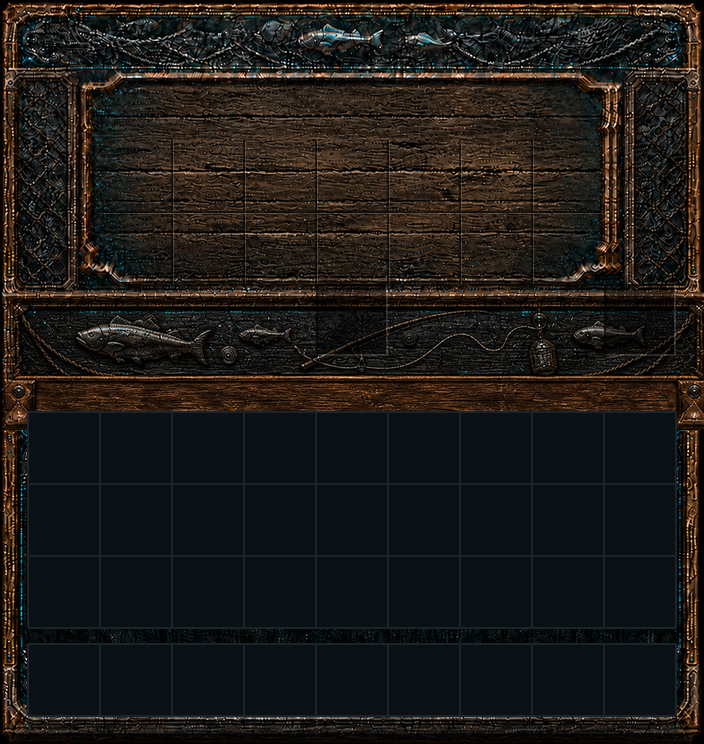
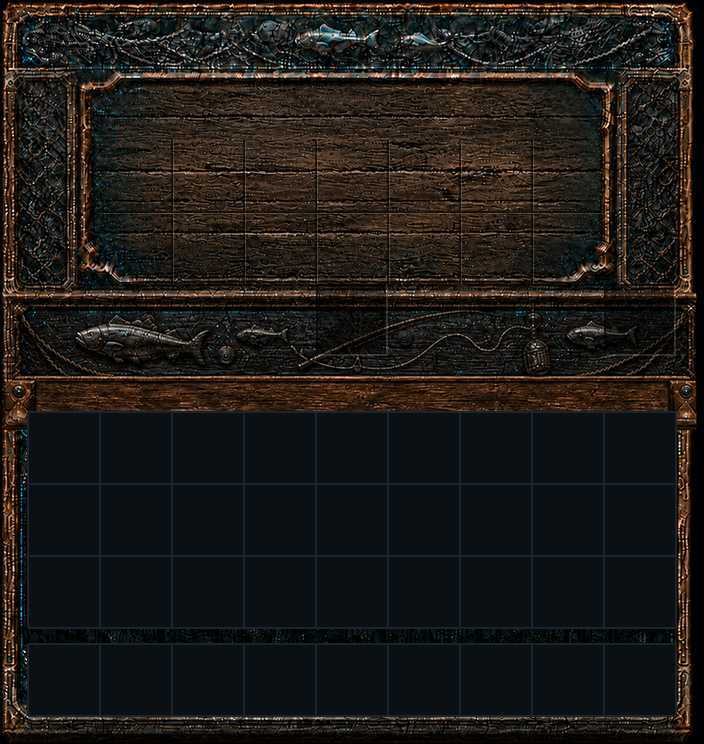
납품 원화 캔버스 보정기(fit_plate.py) + 판매창/공용 원화 반영
그림 생성기가 가이드 캔버스를 정확히 못 맞춘다(1117x1409, 1236x1273). 통짜
리사이즈로 되는 경우와, 내부 층 위치가 어긋나 구간별 재배치가 필요한 경우를 함께 처리.

공용 6행 원화는 나무 구분 띠와 인벤 패널이 약 60px 낮아 인벤 첫 줄이 띠 위에
올라탔다 — 컨테이너 영역(0~499)은 정확했으므로 유지하고 아래만 끌어올렸다.

★bg_raw.png(납품 원화)는 손대지 않고 bg_source.png 를 항상 재생성 —
여러 번 돌려도 리샘플 열화가 누적되지 않는다.

Changed region(s): [[0.0, 0.0, 1.0, 1.0], [0.625, 0.8347, 0.6562, 0.8656], [0.0, 0.2164, 0.0312, 0.2473]]

diff --git a/gui-forge/fit_plate.py b/gui-forge/fit_plate.py
@@ -1,0 +1,62 @@
+#!/usr/bin/env python3
+"""납품 원화(bg_raw.png)를 정확한 캔버스에 맞춘다 — 통짜 리사이즈 + 구간별 세로 보정.
+
+## 왜
+그림 생성기가 가이드 캔버스를 정확히 못 맞춘다(1117x1409, 1236x1273 처럼 나온다).
+비율이 맞으면 통짜 리사이즈로 끝나지만, 안 맞거나 **내부 층 위치가 어긋나면**
+(예: 나무 구분 띠가 60px 낮아 인벤 첫 줄이 띠 위에 올라탐) 구간별로 다시 배치해야 한다.
+
+## 방식
+`BANDS` 는 (원본 y구간 → 목표 y구간) 목록이다. 프레임처럼 건드리면 안 되는 구간은
+1:1로 두고, 판·띠처럼 늘려도 티가 안 나는 구간만 압축/확장한다. 좌우는 손대지 않는다
+(가로는 프레임 두께만 문제라 원화 단계에서 잡는 게 맞다).
+
+## 원본 보존
+bg_raw.png 는 손대지 않는다. bg_source.png 는 **항상 여기서 재생성**되는 산출물이라
+여러 번 돌려도 열화가 누적되지 않는다.
+
+사용: python3 fit_plate.py common6
+      python3 fit_plate.py fish_shop
+"""
+import os
+import sys
+
+from PIL import Image
+
+HERE = os.path.dirname(os.path.abspath(__file__))
+
+# gui이름: (목표 캔버스, 세로 보정 구간)
+#   구간 없음([]) = 통짜 리사이즈만 (비율이 맞는 경우)
+PLATES = {
+    # 원화의 나무 구분 띠와 인벤 패널이 약 60px 낮아 인벤 첫 줄(y556~)이 띠 위에 올라탔다.
+    # 컨테이너 영역(0~499)은 정확했으므로 그대로 두고 아래만 끌어올린다.
+    "common6": ((704, 888), [((0, 500), (0, 500)),        # 상단 프레임 + 컨테이너 판 — 유지
+                             ((500, 616), (500, 556)),    # 판 아래 테두리 + 나무 띠 — 압축
+                             ((616, 859), (556, 860)),    # 인벤 패널 — 확장
+                             ((859, 888), (860, 888))]),  # 하단 프레임 — 유지
+    "fish_shop": ((704, 744), []),
+}
+
+
+def main():
+    if len(sys.argv) < 2:
+        print(__doc__)
+        sys.exit(1)
+    name = sys.argv[1]
+    (W, H), bands = PLATES[name]
+    d = os.path.join(HERE, "src", name)
+    raw = Image.open(os.path.join(d, "bg_raw.png")).convert("RGBA")
+
+    fit = raw.resize((W, H), Image.LANCZOS)
+    if bands:
+        out = Image.new("RGBA", (W, H))
+        for (a0, a1), (b0, b1) in bands:
+            out.paste(fit.crop((0, a0, W, a1)).resize((W, b1 - b0), Image.LANCZOS), (0, b0))
+        fit = out
+    assert fit.getchannel("A").getextrema()[0] == 255, "투명 픽셀이 있다 — 배경판은 불투명이어야 한다"
+    fit.save(os.path.join(d, "bg_source.png"))
+    print(f"{name}: {raw.size} → {W}x{H}" + (f", 세로 보정 {len(bands)}구간" if bands else ", 통짜 리사이즈"))
+
+
+if __name__ == "__main__":
+    main()
